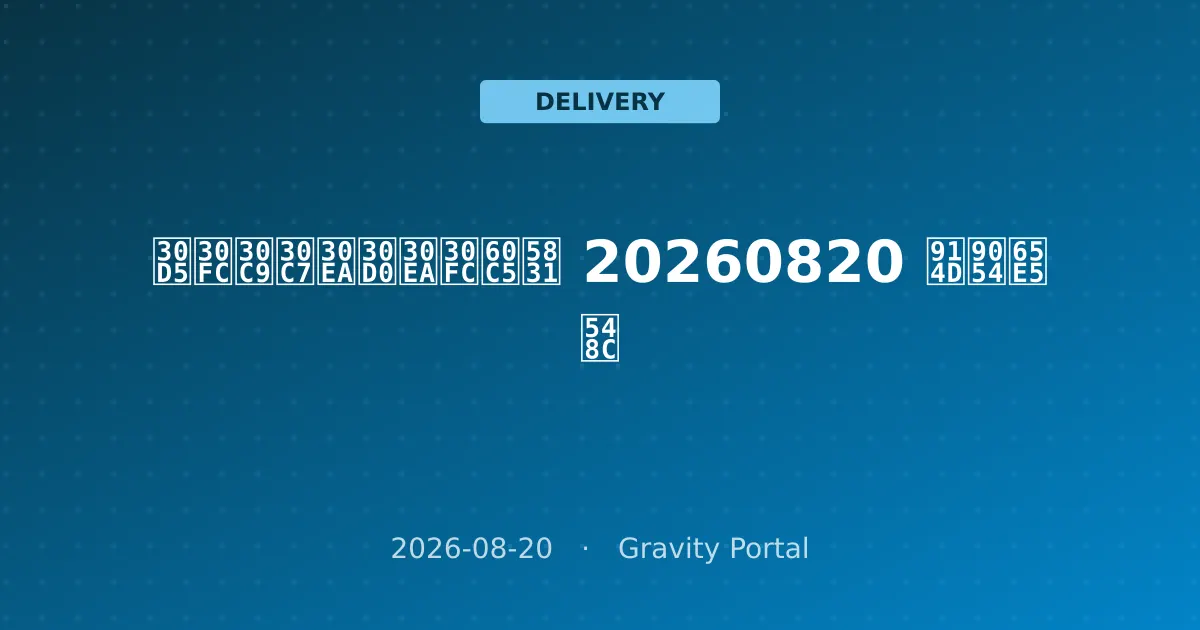
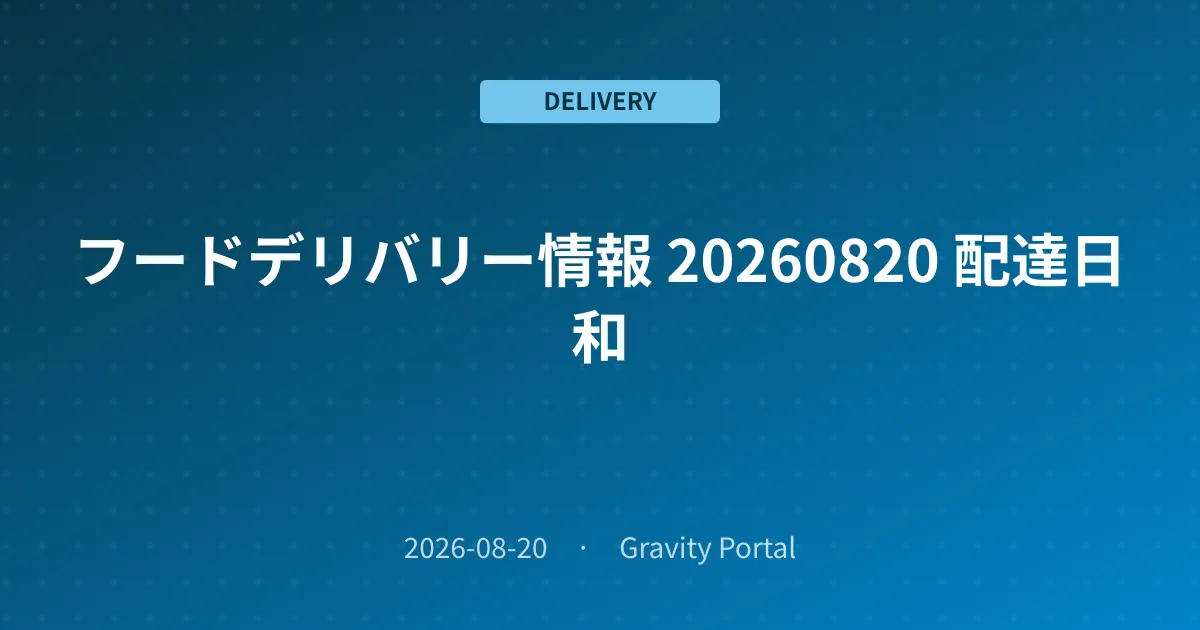
fix(blog): menu撤退発表日時の明記および日次レポートOGPフォント豆腐化バグの修正と画像再生成

diff --git a/src/articles/202608/20260818_delivery_starter_guide.html b/src/articles/202608/20260818_delivery_starter_guide.html
@@ -5,11 +5,21 @@ excerpt: 名古屋・愛知で稼働するフードデリバリー各社（Uber 
 tags: ["フードデリバリー","初心者ガイド","Uber Eats","出前館","ロケットナウ"]
 -->
 <p><img src="/blog/images/delivery_starter_guide_hero.png" alt="【2026年最新】フードデリバリー配達員デビュー完全ガイド"></p>
+
+<div class="alert-box" style="background: rgba(239, 68, 68, 0.08); border: 1px solid rgba(239, 68, 68, 0.3); border-radius: 12px; padding: 16px 20px; margin: 20px 0;">
+  <p style="color: #ef4444; font-weight: bold; margin-top: 0; margin-bottom: 6px;">
+    📢 【2026年8月20日 追記】menuのサービス終了（2026年9月30日）発表について
+  </p>
+  <p style="font-size: 0.9rem; margin-bottom: 0; line-height: 1.6;">
+    2026年8月20日（木）にKDDIより、<strong>フードデリバリー「menu」が2026年9月30日（水）をもってサービス終了・運営会社解散する</strong>ことが正式発表されました。これに伴い、今から配達員を始める方は<strong>Uber Eats・出前館・ロケットナウの3社体制</strong>での登録・稼働をおすすめします。詳しいスケジュールや売上金出金の注意点は<a href="../20260821_menu_service_end_notice/" style="color: #ef4444; font-weight: bold; text-decoration: underline;">こちらの解説速報記事</a>をご確認ください。
+  </p>
+</div>
+
 <p>
   「これからフードデリバリーの配達員を始めてみたいけれど、どのアプリに登録すればいいかわからない」「どの組み合わせが一番稼げるの？」と悩んでいませんか？
 </p>
 <p>
-  現在、名古屋・愛知エリアを中心に稼働できる主要フードデリバリーは<strong>Uber Eats・出前館・ロケットナウ（RocketNow）・menu</strong>の4社です（※menuは2026年9月30日をもってサービス終了が発表されたため、これから始める方は実質上位3社が中心となります）。結論から言うと、配達員として効率よく稼ぐ最大のコツは<strong>「1社に絞らず、複数アプリを組み合わせて待機時間をゼロにすること」</strong>です。
+  現在、名古屋・愛知エリアを中心に稼働できる主要フードデリバリーは<strong>Uber Eats・出前館・ロケットナウ（RocketNow）・menu</strong>の4社です（※menuは2026年8月20日に9月30日での終了が発表されたため、これから始める方は実質上位3社が中心となります）。結論から言うと、配達員として効率よく稼ぐ最大のコツは<strong>「1社に絞らず、複数アプリを組み合わせて待機時間をゼロにすること」</strong>です。
 </p>
 <p>
   この記事では、主要デリバリーアプリの特徴・登録手順・お得な紹介キャンペーン情報に加え、筆者が日々実践している<strong>「Uber Eats × 出前館の常時併用にロケットナウを組み合わせるリアルな稼働スタイル」</strong>を詳しく解説します。

diff --git a/src/articles/202608/20260808_delivery_platform_comparison_nagoya.html b/src/articles/202608/20260808_delivery_platform_comparison_nagoya.html
@@ -4,6 +4,15 @@ date: 2026-08-08
 excerpt: 名古屋で稼働するUber Eats・出前館・ロケットナウ・menuの報酬体系やエリア特性を徹底比較（※menuは2026年9月末サービス終了）。2025年10月に名古屋上陸したロケットナウの最新情報も。
 tags: ["フードデリバリー","比較"]
 -->
+<div class="alert-box" style="background: rgba(239, 68, 68, 0.08); border: 1px solid rgba(239, 68, 68, 0.3); border-radius: 12px; padding: 16px 20px; margin: 16px 0 24px 0;">
+  <p style="color: #ef4444; font-weight: bold; margin-top: 0; margin-bottom: 6px;">
+    📢 【2026年8月20日 追記】menuのサービス終了発表に伴う市場体制の変更について
+  </p>
+  <p style="font-size: 0.9rem; margin-bottom: 0; line-height: 1.6;">
+    2026年8月20日（木）にKDDIより、<strong>フードデリバリー「menu」が2026年9月30日（水）をもってサービス終了する</strong>ことが発表されました。これにより今後の国内デリバリー市場は<strong>Uber Eats・出前館・ロケットナウの3強体制</strong>へ移行します。詳細は<a href="../20260821_menu_service_end_notice/" style="color: #ef4444; font-weight: bold; text-decoration: underline;">こちらの解説速報記事</a>をご覧ください。
+  </p>
+</div>
+
 <p>
   名古屋でフードデリバリー配達員として稼働するなら、まず押さえておきたいのが「どのアプリを使うか」。<strong>Uber
   Eats・出前館・ロケットナウ（Rocket Now）・menu</strong>の4社が知られていますが、<strong>2026年8月20日にmenuが2026年9月30日をもってサービス終了することを発表</strong>しました。今後は実質3社体制へと移行します。この記事では各社の特徴を比較し、名古屋でどう使い分けるべきかをまとめます。
